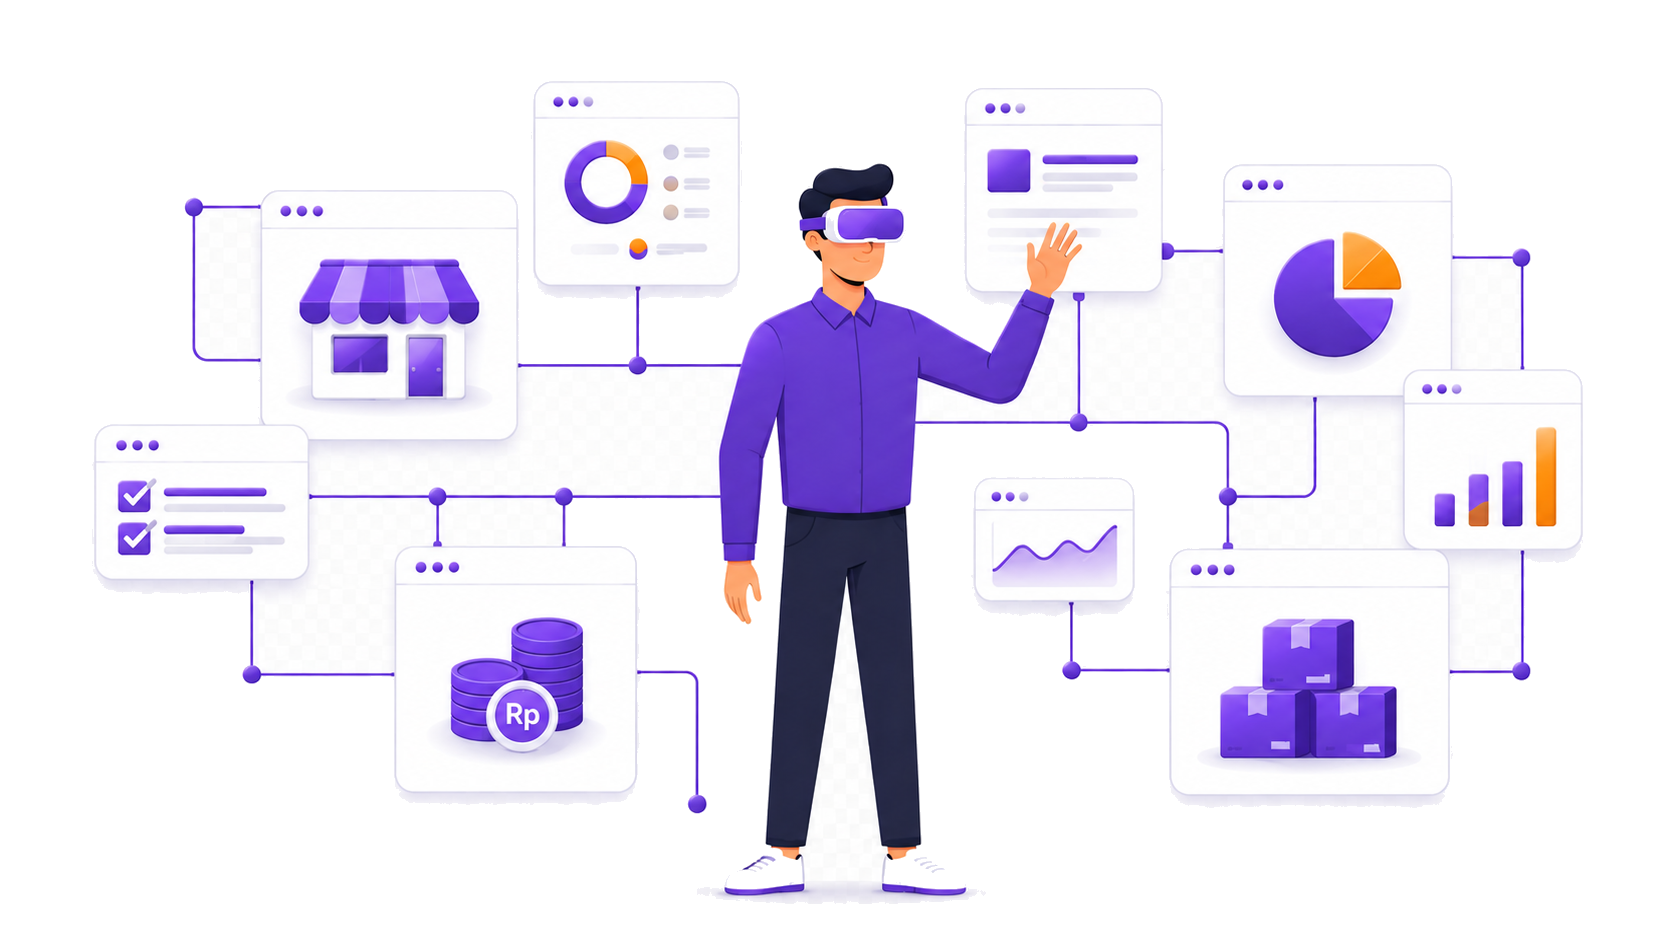
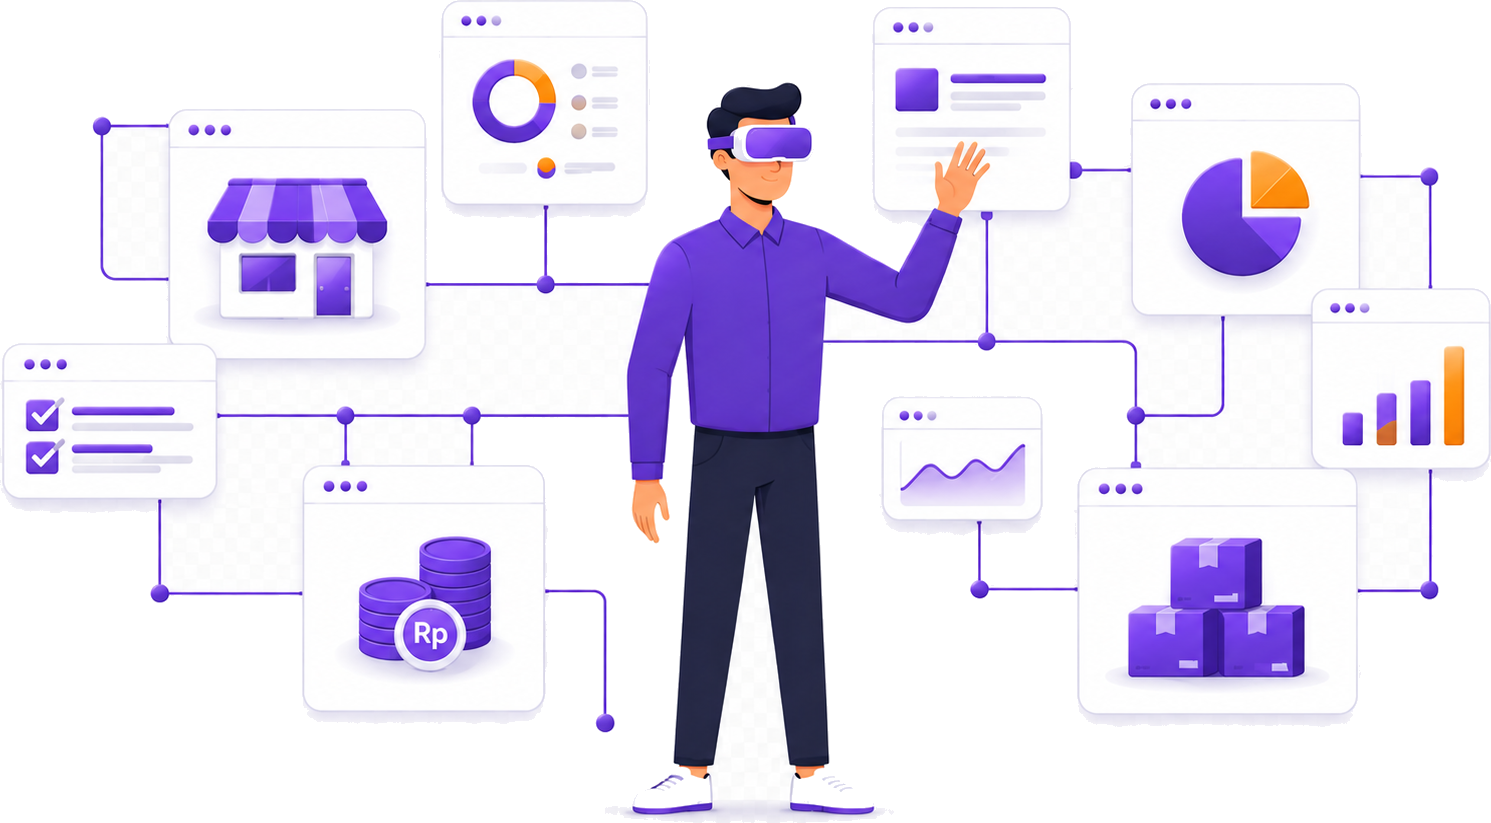
feat: crop transparent margins and increase hero illustration container width to 650px

diff --git a/src/components/Hero.css b/src/components/Hero.css
@@ -25,8 +25,8 @@
 
 .hero-content-split {
   display: grid;
-  grid-template-columns: 1fr 1fr;
-  gap: 60px;
+  grid-template-columns: 0.9fr 1.1fr;
+  gap: 40px;
   align-items: center;
   position: relative;
   z-index: 10;
@@ -174,7 +174,7 @@
 .illustration-wrapper {
   position: relative;
   width: 100%;
-  max-width: 600px; /* Increased to 600px for a larger, bolder visual presence */
+  max-width: 650px; /* Increased to 650px to make the illustration bold and grand */
   display: flex;
   justify-content: center;
   align-items: center;
